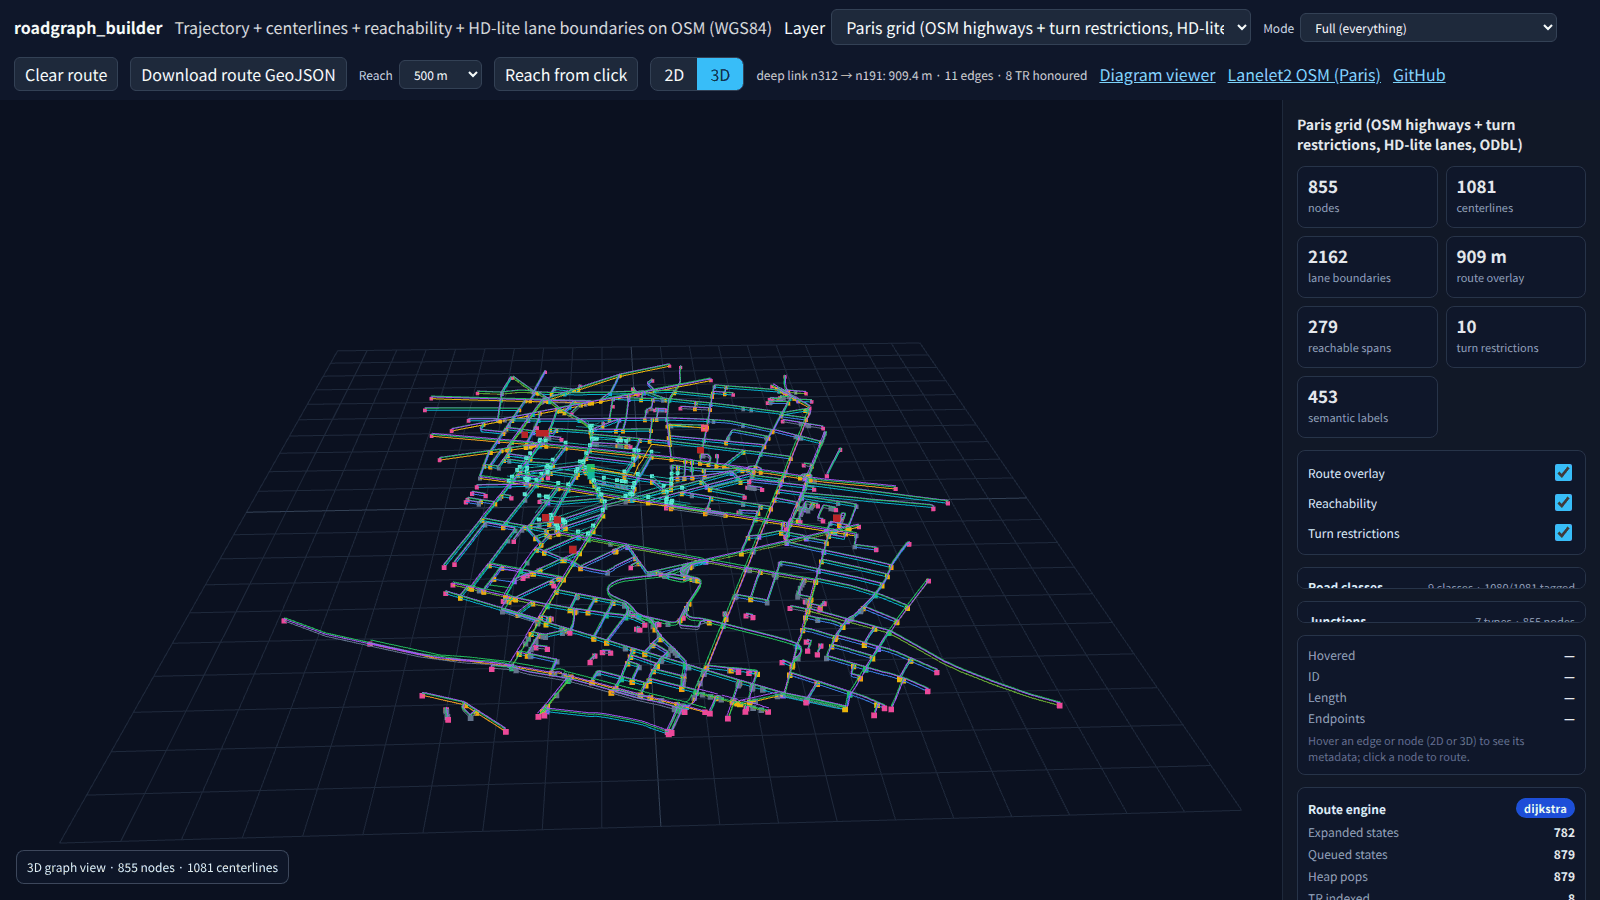
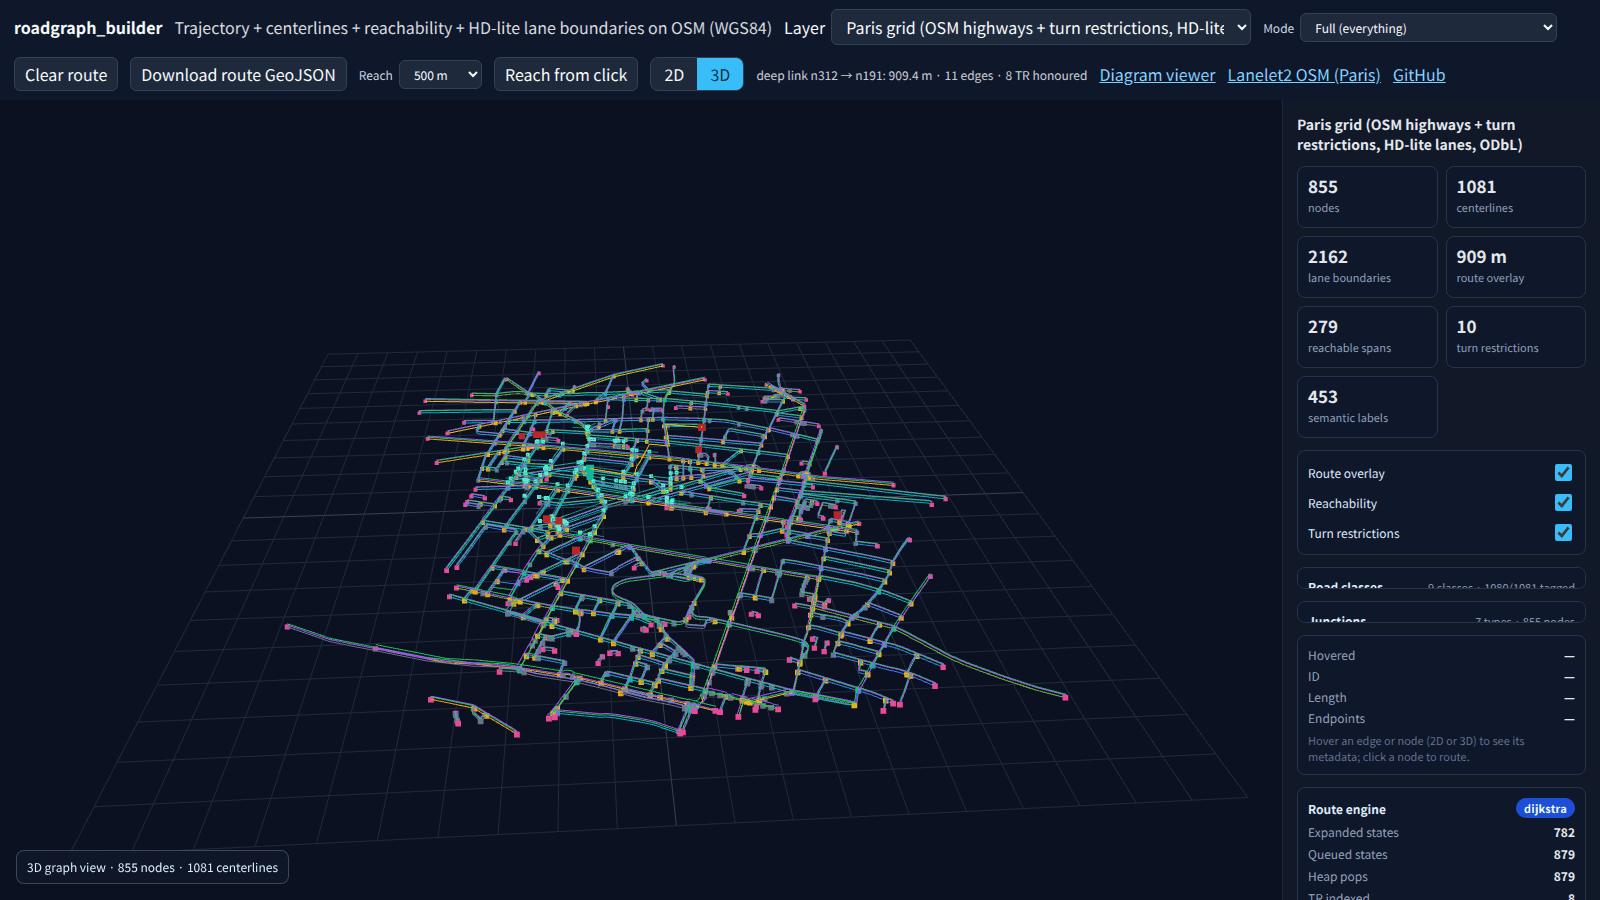
docs: surface Berlin Mitte SD overlays in the README tier table
The SD-tier row of the "From SD to HD" table only mentioned Paris.
Now that Berlin Mitte ships the same TR + route + reachable overlays
(prev commit), the table line was understating what the viewer
actually carries. Updated the row to call out Paris `n312 → n191`
(909 m / 11 edges / 8 TR honoured) alongside Berlin
`n32 → n327` (2 659 m / 48 edges / 17 mapped OSM restrictions).

Hero PNG + animated GIF regenerated so the committed previews stay in
sync with the latest dataset state. No code changes.

Changed region(s): [[0.1562, 0.4044, 0.6875, 0.84]]

diff --git a/README.md b/README.md
@@ -23,7 +23,7 @@ The toolbar's **Mode** select walks through the pipeline tiers on any committed 
 | Tier | What is drawn | What proves it |
 | --- | --- | --- |
 | **Basic** | Centerlines coloured by OSM `highway` class (motorway → red through residential → cyan) + graph nodes coloured by junction type (T / Y / crossroads / X / complex / through-or-corner / dead-end) | `build-osm-graph` + `pipeline.junction_topology` — bare SD graph, topology-honest, 855 nodes / 1 081 centerlines for the Paris bbox. |
-| **SD** | + directed-state **route** (JS Dijkstra honouring OSM `no_*` / `only_*`) + **turn restriction** markers | The committed `n312 → n191` route is **909 m** with restrictions vs **878 m** without — 31 m detour, 11 edges, 8 TR honoured, matching the CLI. |
+| **SD** | + directed-state **route** (JS Dijkstra honouring OSM `no_*` / `only_*`) + **turn restriction** markers | Paris `n312 → n191` is **909 m / 11 edges / 8 TR honoured** (the unrestricted shortest path is 878 m, a 31 m detour). Berlin Mitte `n32 → n327` ships the same way: **2 659 m / 48 edges**, 17 mapped OSM restrictions. Both use the same JS Dijkstra the CLI's `route` falls back to. |
 | **HD** | + HD-lite **lane boundaries** (green / purple dashes from `enrich --lane-width-m 3.5`) + synthetic **traffic lights / stop lines / crosswalks / speed limits** + 500 m **reachability** spans | 2 162 lane boundaries, 9 regulatory markers, 279 reachable edges / 96 reachable nodes in the committed Paris sample — same overlays `apply-camera` and `reachable` produce from the CLI. |
 | **Full** | Everything above | Default when the viewer opens; click **Reach from click** to pick any node and recompute reachability live in the browser. |
 | **Lanelet2** | Downloadable per-lane OSM XML for Autoware tooling | [`docs/assets/map_paris_grid.lanelet.osm`](docs/assets/map_paris_grid.lanelet.osm) — 1 081 `type=lanelet` relations with left/right boundary ways, emitted by `export_lanelet2_per_lane()` after `infer_lane_counts`. HD-lite envelopes, not survey-grade. |
